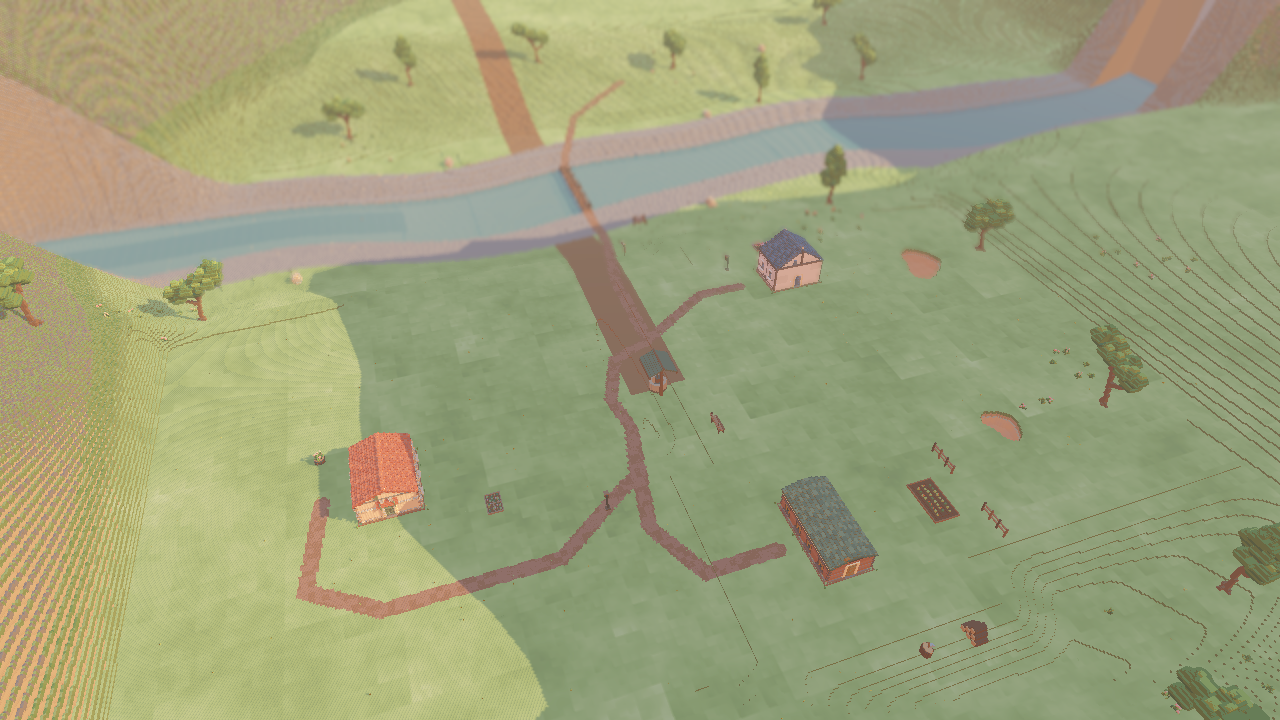
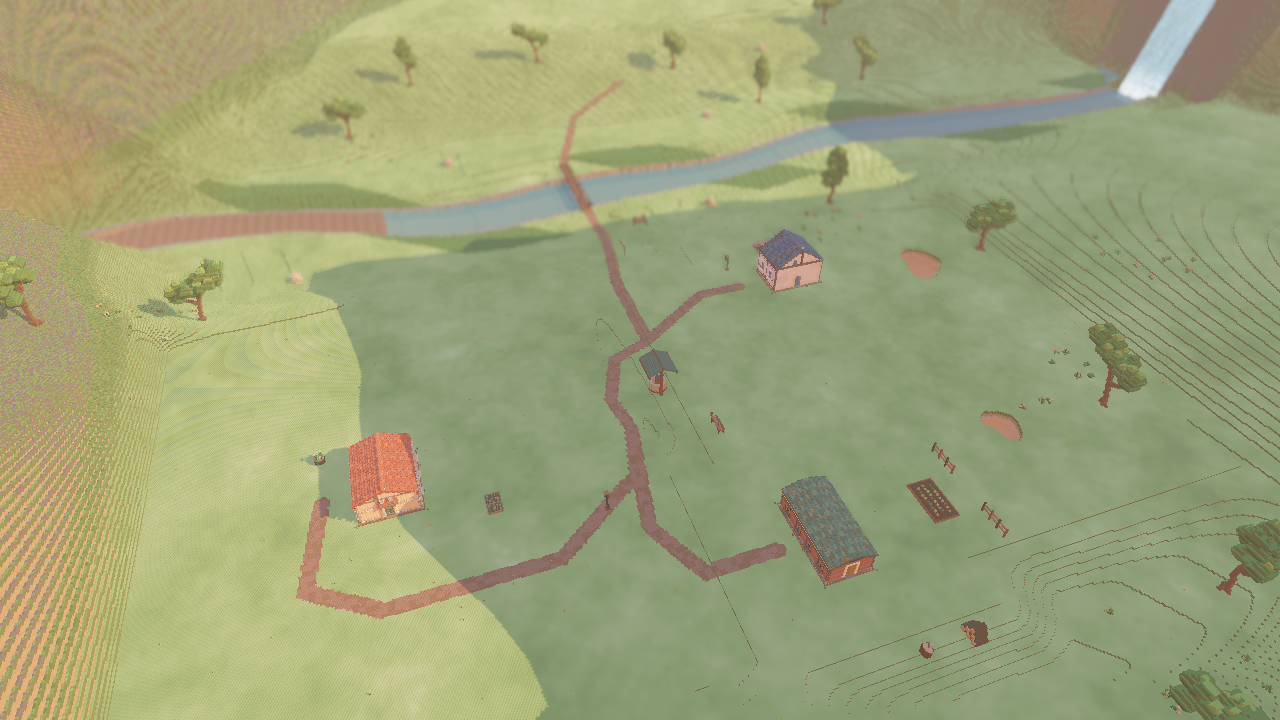
tools: Xvfb Mobile-renderer capture for waterfall work + screenshot evidence
waterfall_shot boots the starter scene under a virtual display with the
Mobile renderer and captures any camera view, failing closed on
backend/area-mesh/water-drain readiness, mirroring the render test.
Docs describe the manual capture flow; the waterfall/ screenshots are
the design history (cliff-flank candidates, current wide + closeup,
render comparison), and the detailed-mountains set is refreshed.

diff --git a/docs/render-screenshots.md b/docs/render-screenshots.md
@@ -1,0 +1,102 @@
+# Render screenshots (actual Mobile render, on this host)
+
+How to render the real Mobile-renderer scene and capture a screenshot for visual
+design iteration and review, from this Linux host (no display, no PowerShell). This is
+the "look at it and iterate" loop; it complements the numeric `godot --headless` tests,
+which can't see the image.
+
+## Why not `--headless`
+
+`godot --headless` disables the renderer, so `get_texture().get_image()` comes back
+blank. A real rendered frame needs a display server. The practical answer is a virtual
+X display (**Xvfb**) plus the **Mobile renderer** (the game's actual renderer).
+
+## Method A — Xvfb + a SceneTree capture script (this host)
+
+1. Write a `SceneTree` script that boots the real scene, aims the camera, and saves the
+   frame. Model: `tools/det_bisect.gd` (full) and `tests/tmp_capture_probe.gd` (minimal,
+   no scene). Template:
+
+```gdscript
+extends SceneTree
+var scene: Node
+
+func _initialize() -> void:
+    call_deferred("_run")
+
+func _capture() -> Image:
+    for i in 4:                      # let the renderer settle
+        await RenderingServer.frame_post_draw
+    return root.get_texture().get_image()
+
+func _run() -> void:
+    if DisplayServer.get_name() == "headless":
+        print("CAPTURE_UNAVAILABLE headless")
+        quit(2)
+        return
+    root.size = Vector2i(1280, 720)
+    scene = (preload("res://scenes/m1.tscn") as PackedScene).instantiate()
+    scene.test_mode = true
+    root.add_child(scene)
+    var deadline := Time.get_ticks_msec() + 120000
+    while not (scene._player_restored and scene.backend and scene.backend.is_ready()) \
+            and Time.get_ticks_msec() < deadline:
+        await process_frame
+    if scene.hud:
+        scene.hud.visible = false
+    # Aim at what you want to see — tune by trial:
+    scene.camera_yaw = PI * 0.6
+    scene.camera_pitch = 0.35
+    scene.camera_distance = 14.0
+    scene._update_camera()
+    var img := await _capture()
+    img.save_png("res://reports/screenshots/my-area/shot.png")
+    quit(0)
+```
+
+   `scenes/m1.tscn` is the live gameplay scene that renders the current default world
+   (the M2 starter valley). For a specific region, set the camera controls (`camera_yaw`
+   / `camera_pitch` / `camera_distance` + `_update_camera()`) until the target fills the
+   frame; the scene is a full 1280³ world, so pick the region coordinates from the
+   generator (e.g. the waterfall is near x=64, z=33).
+
+2. Run it on a virtual display with the Mobile renderer and software GL:
+
+```sh
+timeout 400 xvfb-run -a godot --max-fps 60 --renderer mobile --path . --script tools/my_shot.gd
+```
+
+   `xvfb-run -a` starts a fresh Xvfb and tears it down (equivalently: start
+   `Xvfb :99` and use `DISPLAY=:99 LIBGL_ALWAYS_SOFTWARE=1 godot ...`).
+   `LIBGL_ALWAYS_SOFTWARE=1` keeps it working without a GPU. Always wrap in a bounded
+   `timeout` so a stuck scene can't hang the turn.
+
+3. View the result: use the `read` tool on the PNG (it renders the image), open it in a
+   browser, or `show_image`. Iterate: change the scene/camera/shader, re-run, re-view,
+   until the design reads the way you want.
+
+- Save captures under `reports/screenshots/<area>/` — this tree is committed (the
+  `circular-mountain-valley/` captures, including `waterfall.png`, live here).
+  `reports/logs/` is gitignored; keep logs there.
+
+## Method B — canonical `--write-movie` (Windows / PowerShell only)
+
+`tools/capture-m1.ps1 -View cottage -Clean -Name my-normal` uses Godot's built-in movie
+writer with camera presets:
+
+```
+godot --disable-vsync --write-movie .tools/capture-<name>/frame.png --fixed-fps 30 \
+      --quit-after 60 -- --review-<view>
+```
+
+Views: `cottage` / `close` / `dig` / `near` / `far` / `occluded`; flags `-Clean`,
+`-Edited`, `-Front`. Output lands in `reports/screenshots/<name>.png`. This is the
+canonical Windows path; it is **not** usable on this host (no PowerShell), so Method A
+is the practical equivalent here.
+
+## Caveats
+
+- This is a desktop / software-GL render — a design proxy, **not** Thor evidence
+  (AGENTS.md: "Desktop evidence is not Thor evidence").
+- Render with `--renderer mobile`; `gl_compatibility` is only for the explicit desktop
+  benchmark path.
